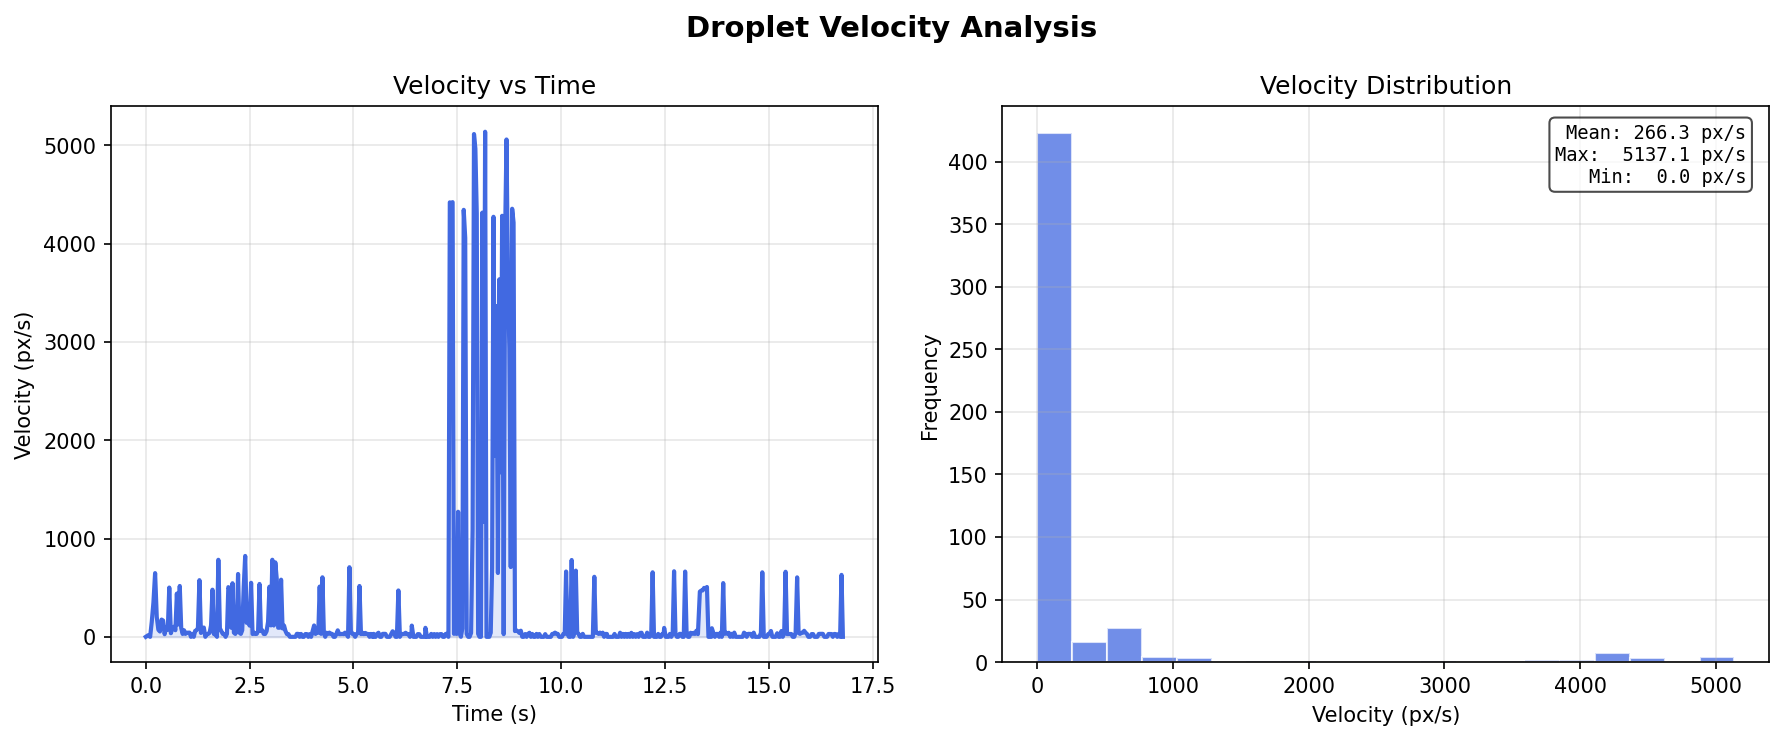
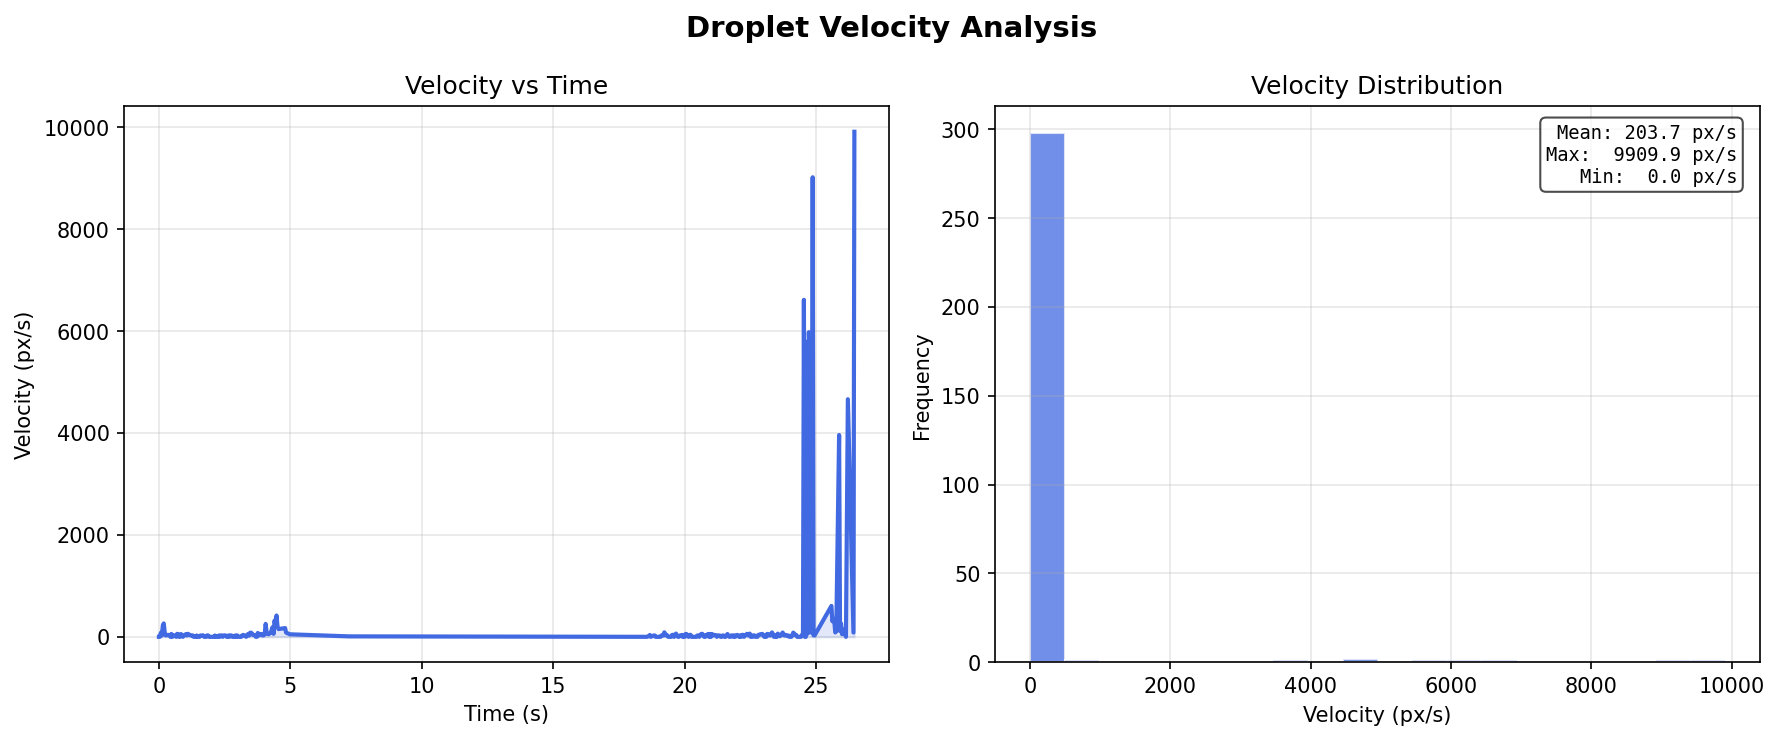
Tuning

diff --git a/main.py b/main.py
@@ -23,20 +23,20 @@ def set_servo_position(gpio_pin, position, min_pulse=500, max_pulse=2500):
 #Top Servo 7 DOF
 #kyP, kyI, kyD = 0.002, 0.0, 0.00015
 #Top Servo 2 DOF
-kyP, kyI, kyD = 0.001, 0.00, 0.0
+kyP, kyI, kyD = 0.0015, 0.000, 0.00000
 
 #Bottom servo 7 DOF
 #kxP, kxI, kxD = 0.002, 0.0, 0.00015
 #Bottom servo 2 DOF (0.001 P value is good)
-kxP, kxI, kxD = 0.001, 0.00, 0.000
+kxP, kxI, kxD = 0.001, 0.000, 0.00000
 
 # PID Controllers:
-pid_x = PID(kxP, kxI, kxD, setpoint=0, output_limits=(-0.15, 0.15))
-pid_y = PID(kyP, kyI, kyD, setpoint=0, output_limits=(-0.15, 0.15))
+pid_x = PID(kxP, kxI, kxD, setpoint=0, output_limits=(-0.2, 0.2))
+pid_y = PID(kyP, kyI, kyD, setpoint=0, output_limits=(-0.2, 0.2))
 
 def adjust_servo(x, y):
-    set_servo_position(x_servo_pin,1* pid_x(x))
-    set_servo_position(y_servo_pin,1 * pid_y(y))
+    set_servo_position(x_servo_pin,-1* pid_x(x))
+    set_servo_position(y_servo_pin,-1 * pid_y(y))
 
 # ─────────────────────────────────────────────
 # Trajectory generators
@@ -156,7 +156,7 @@ def show_velocity_graph(timestamps, velocities):
 # Trajectory follower with LIVE FEED
 # ─────────────────────────────────────────────
 
-def follow_trajectory(cap, trajectory, tolerance=15, max_time_per_point=30):
+def follow_trajectory(cap, trajectory, tolerance=25, max_time_per_point=30):
     vel_timestamps = []
     vel_values     = []
     prev_centroid  = None
